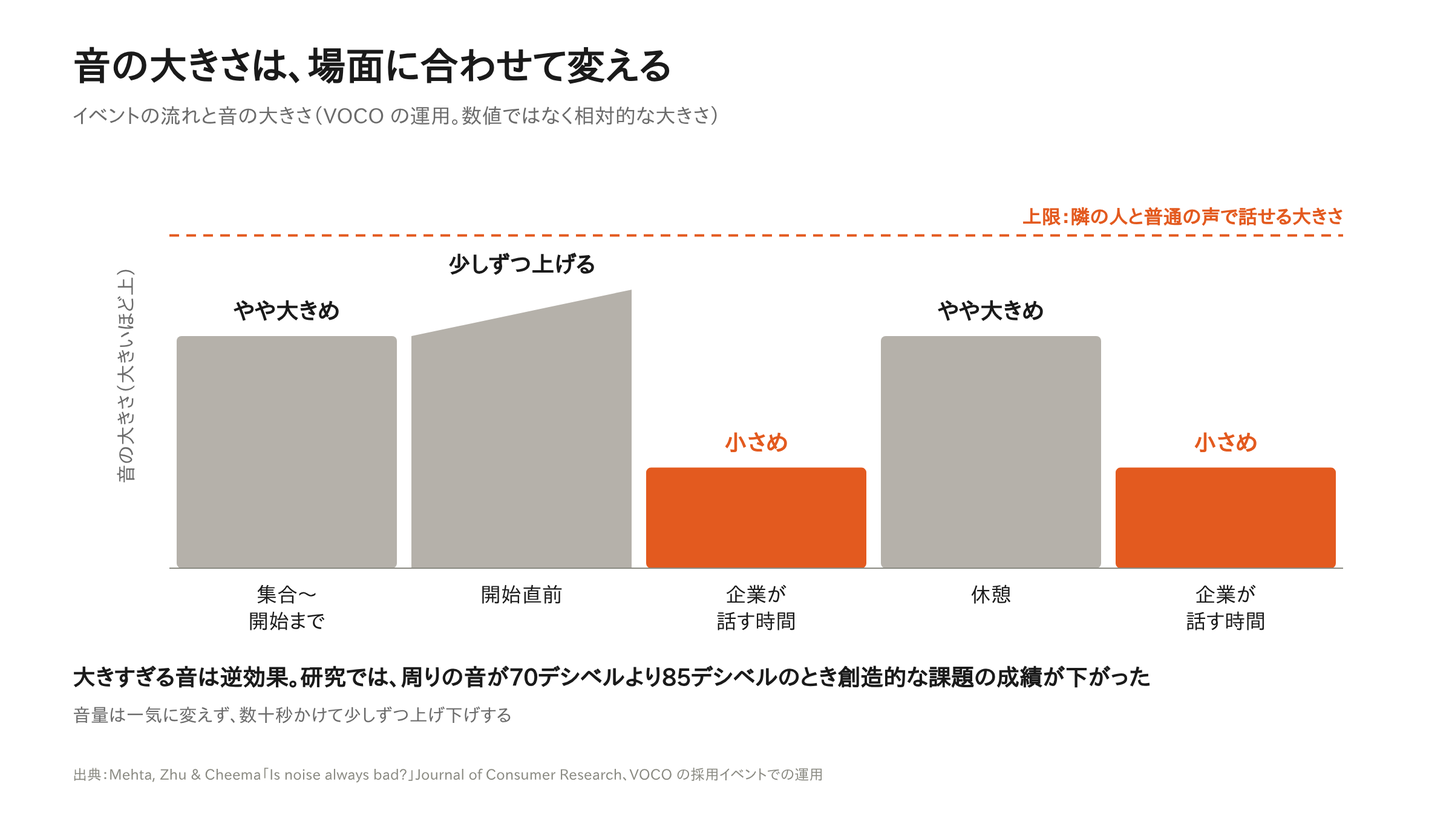
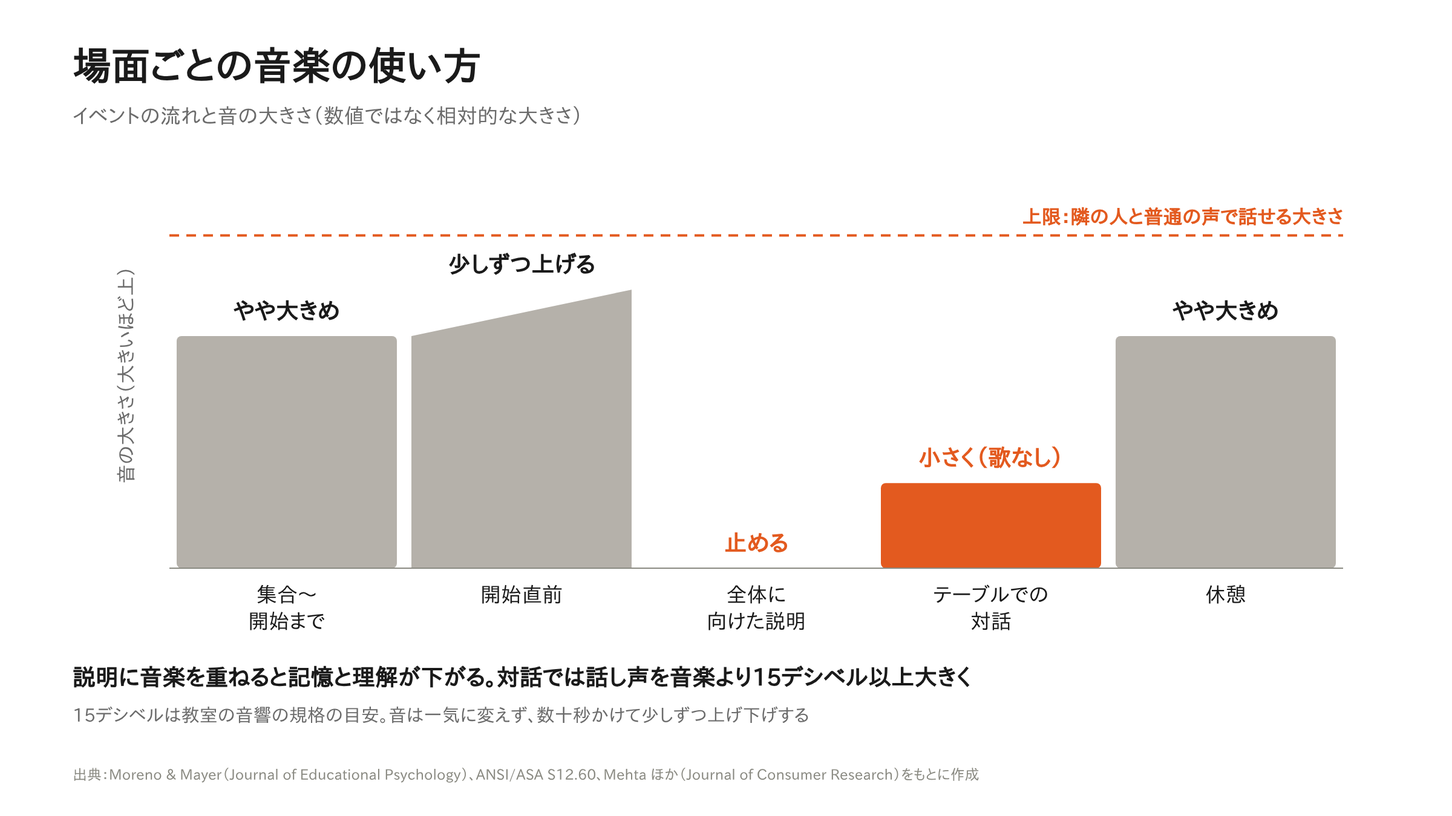
No.049 を研究で見直した「正しい音楽の使い方」に作り直し
- VOCO の運用を研究と照合し、改める2点（説明は止める、対話は歌のない曲を小さく）を提示
- 図2・図3を新しい使い方に合わせて作り直し、K-008 に点検結果を追記

Claude-Session: https://claude.ai/code/session_01MVhFnc9z1iMB51uu1opxbj

diff --git a/content/articles/out/No.049_article.html b/content/articles/out/No.049_article.html
@@ -1,92 +1,104 @@
-<!-- No.049 採用イベントに音楽は必要？｜曲調・音量・場面ごとの流し方を研究と現場の運用から解説
-タイトル（Studio の記事タイトル欄に入れる。本文には入れない）：採用イベントに音楽は必要？｜曲調・音量・場面ごとの流し方を研究と現場の運用から解説
-メタディスクリプション：採用イベントの音楽は、普段の空間と切り分け、会話が途切れたときの気まずさを消すために流します。歌詞の意味が届きにくい曲を選び、集合から開始、企業の話、休憩と場面ごとに音量を変えます。沈黙・歌詞・テンポ・音量に関する研究と、私たちのイベントでの運用、著作権の注意点をまとめました。
+<!-- No.049 採用イベントの音楽はどう流すのが正しい？｜研究で見直した曲の選び方・音量・場面ごとの使い方
+タイトル（Studio の記事タイトル欄に入れる。本文には入れない）：採用イベントの音楽はどう流すのが正しい？｜研究で見直した曲の選び方・音量・場面ごとの使い方
+メタディスクリプション：採用イベントの音楽は流すべきですが、全体に向けた説明の時間は止め、学生と話す時間は歌のない曲を話し声より十分小さく流すのが研究に沿った使い方です。沈黙、歌詞と言語、説明中の音楽、音量の基準に関する研究をもとに、私たちの運用も点検し、場面ごとの正しい使い方をまとめました。
 カテゴリ：2 採用イベント・合同説明会
-狙うプロンプト（層B／E）：採用イベント BGM／説明会 音楽 流す／イベント BGM 音量 曲 選び方／合同説明会 BGM 必要
-H2 に指定する行：結論：音楽は「場を切り替え、沈黙を埋める」ために流す／そもそも採用イベントに音楽は必要か／どんな曲を流すか：歌詞とテンポで選ぶ／音の大きさは場面に合わせて変える／音楽を流すうえで大切な5つのこと／まとめ／よくある質問
-画像（記事中）：写真ではなく図3枚（2026-11-09 堀本さん指示。No.049_charts.json から make-chart.mjs で作成）。【画像：図 chart】図1「そもそも採用イベントに〜」の直前／図2「どんな曲を流すか〜」の直前／図3「音の大きさは場面に〜」の直前
+狙うプロンプト（層B／E）：採用イベント BGM／説明会 音楽 流す／イベント BGM 音量 曲 選び方／合同説明会 BGM 必要／プレゼン中 BGM 必要か
+H2 に指定する行：結論：音楽は流す。ただし説明の時間は止め、対話の時間は歌のない曲を小さく／そもそもイベントに音楽は必要か／曲の選び方：歌詞と言語、曲調で決める／場面ごとの正しい使い方／音楽を流すうえで大切な5つのこと／まとめ／よくある質問
+画像（記事中）：写真ではなく図3枚（2026-11-09 堀本さん指示。No.049_charts.json から make-chart.mjs で作成）。【画像：図 chart】図1「そもそもイベントに〜」の直前／図2「曲の選び方〜」の直前／図3「場面ごとの正しい使い方」の直前
 画像の場面指示（英語）：（3枚とも図。make-chart.mjs で作成するため場面指示なし）
-表：「音の大きさは場面に合わせて変える」の節に表1つ。Studio が表に非対応なら箇条書きに置き換える
+表：「結論」の節（私たちの運用の点検）と「場面ごとの正しい使い方」の節に表を1つずつ。Studio が表に非対応なら箇条書きに置き換える
 CTA：本文末尾の段落の下にボタンコンポーネント2つ。擬似ボタンは作らない
 著者ボックス：全記事共通。氏名「堀本 大然」、所属「株式会社VOCO」、役職「経営戦略本部マネージャー」、/member の本人ページへリンク
-一次情報：VOCO の採用イベントでの音楽の運用（堀本さん 2026-11-09：普段の空間と切り分ける、音が途切れる瞬間＝気まずい瞬間を作らない、日本語の歌詞は読み取れて集中が削がれるため洋楽で盛り上げる、集合〜開始はやや大きめで開始直前に向けて上げる、企業が話す時間は小さめ、休憩はやや大きめ）。部活動の公式活動として開催、学生3〜5名のグループ面談形式
-外部：Koudenburg, Postmes & Gordijn「Disrupting the flow」Journal of Experimental Social Psychology（4秒の沈黙で拒絶感・自信の低下。沈黙に気づいていなくても影響）／Perham & Currie「Does listening to preferred music improve reading comprehension performance?」Applied Cognitive Psychology（歌詞のある音楽は、歌詞のない音楽や無音より読解の成績を下げた）／Haapakangas, Hongisto & Liebl, Indoor Air（周囲の話し声は聞き取りやすいほど作業成績を下げる。言語の短期記憶で影響が大きい）／Husain, Thompson & Schellenberg「Effects of musical tempo and mode on arousal, mood, and spatial abilities」Music Perception（テンポは覚醒度、長調・短調は気分に作用）／Milliman「Using background music to affect the behavior of supermarket shoppers」Journal of Marketing（テンポで客の歩く速さが変わり、音楽への気づきは条件で差がない）／Mehta, Zhu & Cheema「Is noise always bad?」Journal of Consumer Research（70dB は50dB より創造的課題の成績が高く、85dB では下がった）／JASRAC よくある質問（店舗・施設でCDや音楽プレーヤーで流すBGMは使用料規程の対象。サブスクは個人利用に限られる場合があり規約を確認）
-参考（構成の参考。文章は引用していない）：BGMと集中・店舗BGMの効果・イベント音響の解説記事の一般的な構成
+一次情報：VOCO の採用イベントでの音楽の運用（K-008。普段の空間と切り分ける、音が途切れる瞬間を作らない、日本語の歌詞は避け洋楽、集合〜開始はやや大きめで直前に上げる、企業が話す時間は小さめ、休憩はやや大きめ）と、それを研究で点検した結果（2026-11-09 堀本さん指示「VOCO の使い方が合っているかも含めて考え直す」）。学生3〜5名のグループ面談形式
+外部：Koudenburg, Postmes & Gordijn「Disrupting the flow」Journal of Experimental Social Psychology（4秒の沈黙で拒絶感・自信の低下）／Hui, Dubé & Chebat「The impact of music on consumers' reactions to waiting for services」Journal of Retailing（待ち時間の音楽は、曲の印象に関わらず場の感情的な評価を高め、好意的な行動につながる）／May & Hamilton, Motivation and Emotion（明るい音楽のもとでは写真の人物の人柄の評価と好意が高い）／Kniffin, Yan, Wansink & Schulze「The sound of cooperation」Journal of Organizational Behavior（明るい音楽で協力の拠出が約3分の1多い。音楽なしは不快な音楽と同程度）／Perham & Currie, Applied Cognitive Psychology（歌詞のある音楽は読解の成績を下げる）／Van Engen & Bradlow, Journal of the Acoustical Society of America（英語母語話者は、英語の話し声が重なると中国語の話し声より英文を聞き取れなかった）／Colle & Welsh（意味の分からない外国語の話し声でも、順番に覚える課題の成績は下がる）／Moreno & Mayer「A coherence effect in multimedia learning」Journal of Educational Psychology（ナレーション付きの解説に背景音楽を加えると記憶と応用の成績が下がった）／ANSI/ASA S12.60（教室では話し声を背景の音より15デシベル以上大きくする目安）／Husain, Thompson & Schellenberg, Music Perception（テンポは覚醒度、長調・短調は気分）／Mehta, Zhu & Cheema, Journal of Consumer Research（70dB と 85dB）／Haapakangas, Hongisto & Liebl, Indoor Air（話し声は聞き取りやすいほど作業を妨げる）／JASRAC よくある質問（BGM・サブスク）
+参考（構成の参考。文章は引用していない）：BGMと集中、店舗BGM、学習中の音楽、教室音響の解説の一般的な構成。初版（VOCO の運用の紹介）を、研究による点検と「正しい使い方」の提示に作り直した
 FAQPage JSON-LD：
 {"@context":"https://schema.org","@type":"FAQPage","mainEntity":[
-{"@type":"Question","name":"採用イベントで音楽を流す必要はありますか？","acceptedAnswer":{"@type":"Answer","text":"流すことを勧めます。普段の空間と切り分けて学生の気持ちを切り替え、会話が途切れる瞬間の気まずさを消せるからです。ただし、企業が会社の説明をしている時間は、話を邪魔しない小さめの音量にします。"}},
-{"@type":"Question","name":"採用イベントのBGMは、邦楽と洋楽のどちらがよいですか？","acceptedAnswer":{"@type":"Answer","text":"私たちは洋楽を流しています。歌詞のある音楽は読解や作業を妨げることが分かっており、日本語の歌詞は学生が意味を読み取れるため、注意がそがれやすいからです。より静かにしたい場面では、歌の入らない曲も選べます。"}},
-{"@type":"Question","name":"BGMの音量は、どのくらいにすればよいですか？","acceptedAnswer":{"@type":"Answer","text":"場面で変えます。集合から開始まではやや大きめにして直前に向けて上げ、企業が話している時間は小さめ、休憩時間はやや大きめにします。どの場面でも、隣の人と普通の声で話せる大きさを上限にします。"}}]}
+{"@type":"Question","name":"採用イベントで音楽を流す必要はありますか？","acceptedAnswer":{"@type":"Answer","text":"流すことを勧めます。会話の途切れの気まずさを消し、場の評価や、初対面の相手への印象を高める効果が研究で示されています。ただし、全体に向けた説明の時間は止めます。"}},
+{"@type":"Question","name":"会社説明やプレゼンの間も、BGMは小さく流したほうがよいですか？","acceptedAnswer":{"@type":"Answer","text":"全体に向けた説明では止めることを勧めます。ナレーション付きの解説に背景音楽を加えると、内容の記憶と理解の成績が下がった研究があります。少人数のテーブルで話す時間は、歌のない曲を話し声より十分小さく流します。"}},
+{"@type":"Question","name":"採用イベントのBGMは、邦楽と洋楽のどちらがよいですか？","acceptedAnswer":{"@type":"Answer","text":"集合から開始までと休憩には、明るい洋楽が向いています。母語の歌詞は外国語より会話の妨げになりやすいからです。ただし外国語の歌詞も妨げにはなるため、学生と話す時間は歌のない曲にします。"}}]}
 -->
-<p><strong>採用イベントの音楽は、普段の空間と切り分けることと、会話が途切れたときの気まずさを消すために流します。</strong>曲は歌詞の意味が届きにくいものを選び、音の大きさは場面ごとに変えます。</p>
-<p>「音楽は流したほうがいいのか」「どんな曲を、どのくらいの大きさで流せばいいのか」。イベントを開く企業の採用担当者から、よく寄せられる質問です。音楽は会場の空気を大きく左右しますが、決め方は担当者の好みに任されがちです。</p>
-<p>この記事では、沈黙や歌詞、テンポ、音量に関する研究と、私たちが採用イベントで続けている運用をもとに、音楽の必要性と流し方をまとめます。</p>
+<p><strong>イベントの音楽は流すべきです。ただし、全体に向けた説明の時間は音楽を止め、学生と話す時間は歌のない曲を話し声より十分小さく流すのが、研究に沿った使い方です。</strong></p>
+<p>音楽については、沈黙の気まずさ、歌詞と言語、説明中の音楽、教室の音の大きさなど、別々の分野に研究があります。この記事では、それらをもとに、私たちが採用イベントで続けてきた音楽の使い方を点検しました。</p>
+<p>結果は、大筋は研究と合っていましたが、改めるべき点が2つありました。点検の結果と、場面ごとの正しい使い方を説明します。</p>
 
-<h2>結論：音楽は「場を切り替え、沈黙を埋める」ために流す</h2>
-<p><strong>採用イベントに音楽は必要です。ただし、目的は盛り上げることそのものではなく、学生が話しやすい空気を作ることです。</strong>そのため、話を邪魔しない曲と音量を選びます。</p>
-<p>私たちのイベントでは、日本語の歌詞の曲は流さず、盛り上がる印象の洋楽を流しています。日本語の歌詞は学生が意味を読み取れるため、話に向けたい注意がそがれるからです。</p>
-<p>音の大きさは場面で変えます。集合から開始まではやや大きめにし、始まる直前に向けて少しずつ上げます。企業が話している時間は小さめにし、休憩時間はやや大きめに戻します。</p>
+<h2>結論：音楽は流す。ただし説明の時間は止め、対話の時間は歌のない曲を小さく</h2>
+<p><strong>私たちの運用を研究と照らし合わせた結果を、表にまとめます。</strong></p>
+<table>
+<tr><th>私たちの運用</th><th>研究との照合</th><th>判定</th></tr>
+<tr><td>音楽で普段の空間と切り分ける</td><td>音楽は場の評価と、人への印象を高める</td><td>合っている</td></tr>
+<tr><td>音楽で沈黙の気まずさを消す</td><td>4秒の沈黙でも、人は拒まれている感覚を持つ</td><td>合っている</td></tr>
+<tr><td>日本語の曲を避け、洋楽を流す</td><td>母語の話し声は外国語より聞き取りを妨げる。ただし外国語の歌詞も妨げにはなる</td><td>一部改める</td></tr>
+<tr><td>集合から開始まではやや大きめ、休憩もやや大きめ</td><td>明るい曲は協力や好意を高める。大きすぎる音は逆効果</td><td>合っている（上限を決める）</td></tr>
+<tr><td>企業が話す時間は小さめに流す</td><td>説明に音楽を重ねると、記憶と理解が下がる</td><td>改める</td></tr>
+</table>
+<p>改める点は2つです。①全体に向けた説明の時間は、小さくするのではなく止める。②学生と話す時間に流す曲は、洋楽ではなく歌のない曲にする。以下で、根拠を順に説明します。</p>
 
 <p>【画像：図 chart】図1：会話が途切れた4秒を、音楽が埋める（会話の流れの模式図）</p>
-<h2>そもそも採用イベントに音楽は必要か</h2>
-<p><strong>音楽には、採用イベントで役に立つ働きが2つあります。</strong>①普段の空間と切り分けること、②会話が途切れる瞬間の気まずさを消すことです。</p>
-<p>①について。学生にとって、大学の教室や会議室は普段の場所です。同じ部屋でも、音楽が流れていると「いつもとは違う場に来た」と感じられ、気持ちが切り替わります。初めて会う企業の社員と話す前の緊張も和らぎます。</p>
-<p>②について。オランダの研究チームが、3人の会話の動画を見せる実験を行いました。</p>
-<p>会話の途中に4秒の沈黙が入った動画を見た人は、自信が下がり、自分が拒まれている感覚を強く報告しました。見た人は沈黙に気づいていなかったにもかかわらずです（Koudenburg ほか、Journal of Experimental Social Psychology）。</p>
-<p>学生3〜5名と社員が一つのテーブルで話す形式では、会話が途切れる瞬間がどうしても生まれます。音楽が流れていれば、その瞬間が無音になりません。気まずさが生まれにくくなり、次の一言が出やすくなります。</p>
-<p>一方で、音は考える作業の妨げにもなります。企業が会社の説明をしている時間に大きな音が流れていると、学生は話を聞き取りにくくなります。音楽は必要ですが、場面に合わせて抑えることが前提です。</p>
+<h2>そもそもイベントに音楽は必要か</h2>
+<p><strong>研究からは、音楽を流す理由が3つ挙げられます。</strong>①沈黙の気まずさを消す、②場の印象を良くする、③人への印象と協力を高める、です。</p>
+<p>①について。オランダの研究チームが、3人の会話の動画を見せる実験を行いました。</p>
+<p>会話の途中に4秒の沈黙が入った動画を見た人は、自信が下がり、拒まれている感覚を強く報告しました。沈黙に気づいていなくても影響がありました（Koudenburg ほか、Journal of Experimental Social Psychology）。</p>
+<p>学生3〜5名と社員が一つのテーブルで話すと、会話が途切れる瞬間がどうしても生まれます。音楽が流れていれば、その瞬間が無音になりません。</p>
+<p>②について。サービスの待ち時間に音楽を流した研究では、曲の印象に関わらず、場への感情的な評価が上がり、その組織への好意的な行動につながりました（Hui ほか、Journal of Retailing）。開始を待つ時間にも当てはまります。</p>
+<p>③について。明るい音楽が流れていると、初めて見る人物の人柄への評価や好意が高くなりました（May・Hamilton、Motivation and Emotion）。</p>
+<p>別の実験では、明るい曲のもとでは、協力のための拠出が不快な曲のときより約3分の1多くなりました（Kniffin ほか、Journal of Organizational Behavior）。</p>
+<p>この協力の実験では、音楽がない場合も、不快な曲と同じ程度にとどまりました。初対面の学生と社員が話す場では、無音より明るい曲を流すほうが望ましいといえます。</p>
 
-<p>【画像：図 chart】図2：曲は「歌詞」と「テンポ」で選ぶ（採用イベントで流す曲の選び方）</p>
-<h2>どんな曲を流すか：歌詞とテンポで選ぶ</h2>
-<p><strong>曲を選ぶときに見るのは、歌詞とテンポの2つです。</strong></p>
-<p>歌詞について。英国の大学の実験では、歌詞のある音楽を聞きながら文章を読むと、歌詞のない音楽や無音のときより読解の成績が下がりました（Perham・Currie、Applied Cognitive Psychology）。好きな曲かどうかに関わらず、歌詞が妨げになっていました。</p>
-<p>周りの話し声についての研究をまとめた論文でも、話し声は聞き取りやすいほど作業の成績を下げるとされています（Haapakangas ほか、Indoor Air）。意味が分かる言葉ほど、注意を引き寄せるということです。</p>
-<p>日本の学生にとって、日本語の歌詞は聞き流そうとしても意味が入ってきます。私たちが日本語の曲を避け、洋楽を流しているのはこのためです。より静かにしたい場面では、歌の入らない曲を選ぶ方法もあります。</p>
-<p>テンポについて。カナダの研究チームの実験では、曲のテンポは気持ちの高まり（覚醒度）に、長調か短調かは気分の明るさに影響しました（Husain ほか、Music Perception）。開始前に盛り上げたいなら、テンポが速く明るい曲調の曲が合います。</p>
-<p>米国のスーパーマーケットの実験では、曲のテンポを変えると客の歩く速さが変わりました。客は、音楽に気づいていたかどうかで差がありませんでした（Milliman、Journal of Marketing）。音楽は、気づかれないまま人の動きと気分に働きかけます。</p>
+<p>【画像：図 chart】図2：曲は「歌詞」で使い分ける（場面ごとに流す曲の選び方）</p>
+<h2>曲の選び方：歌詞と言語、曲調で決める</h2>
+<p><strong>曲を選ぶときに最も大切なのは、歌詞があるかどうかと、その言語です。</strong></p>
+<p>歌詞のある音楽は、歌詞のない音楽や無音のときより読解の成績を下げました（Perham・Currie、Applied Cognitive Psychology）。好きな曲かどうかに関わらず、歌詞が妨げになっていました。</p>
+<p>言語の違いについては、聞き取りの研究があります。英語を母語とする人に英文を聞き取ってもらうと、背景に重なる話し声が英語のときは、中国語のときより聞き取れませんでした（Van Engen・Bradlow、Journal of the Acoustical Society of America）。</p>
+<p>この結果からは、日本の学生にとって、日本語の歌詞は英語の歌詞より会話の妨げになると考えられます。日本語の曲を避けるという私たちの運用は、この点で研究と合っています。</p>
+<p>ただし、外国語なら妨げにならないわけではありません。意味の分からない外国語の話し声でも、聞いた内容を順番に覚える課題の成績は下がりました（Colle・Welsh）。英語が得意な学生には、英語の歌詞も意味が入ってきます。そのため、話す時間には歌のない曲が最も安全です。</p>
+<p>曲調は明るいものを選びます。テンポは気持ちの高まりに、長調か短調かは気分の明るさに影響します（Husain ほか、Music Perception）。集合から開始までと休憩には、テンポが速く明るい曲が合います。</p>
 
-<p>【画像：図 chart】図3：音の大きさは、場面に合わせて変える（イベントの流れと音の大きさ）</p>
-<h2>音の大きさは場面に合わせて変える</h2>
-<p><strong>音の大きさは、イベントの流れに合わせて変えます。</strong>私たちのイベントでの運用を表にまとめます。</p>
+<p>【画像：図 chart】図3：場面ごとの音楽の使い方（イベントの流れと音の大きさ）</p>
+<h2>場面ごとの正しい使い方</h2>
+<p><strong>研究を踏まえた場面ごとの使い方を、表にまとめます。</strong></p>
 <table>
-<tr><th>場面</th><th>音の大きさ</th><th>ねらい</th></tr>
-<tr><td>集合から開始まで</td><td>やや大きめ。始まる直前に向けて少しずつ上げる</td><td>普段の空間と切り分け、気持ちを高めていく</td></tr>
-<tr><td>企業が話している時間</td><td>小さめ</td><td>話を邪魔せず、会話の途切れだけを埋める</td></tr>
-<tr><td>休憩時間</td><td>やや大きめ</td><td>張った気持ちをほどき、学生どうしや社員との雑談を促す</td></tr>
+<tr><th>場面</th><th>曲</th><th>音の大きさ</th></tr>
+<tr><td>集合から開始まで</td><td>テンポが速く明るい曲。洋楽でもよい</td><td>やや大きめ。開始の直前に向けて少しずつ上げる</td></tr>
+<tr><td>全体に向けた説明（司会・会社紹介）</td><td>流さない</td><td>止める</td></tr>
+<tr><td>テーブルでの対話</td><td>歌のない、落ち着いた曲</td><td>小さく。話し声より十分小さくする</td></tr>
+<tr><td>休憩</td><td>テンポが速く明るい曲。洋楽でもよい</td><td>やや大きめ</td></tr>
 </table>
-<p>大きすぎる音にも注意が要ります。北米の研究チームの実験では、周りの音が中程度（70デシベル）のときは、静かなとき（50デシベル）より創造的な課題の成績が上がり、大きいとき（85デシベル）には下がりました（Mehta ほか、Journal of Consumer Research）。</p>
-<p>やや大きめの場面でも、隣の人と普通の声で話せる大きさを上限にします。声を張らないと会話できない大きさでは、学生は疲れ、話す気持ちもしぼみます。</p>
-<p>音量は一気に変えず、数十秒かけて少しずつ上げ下げします。急に音が変わると、それ自体が学生の注意を引くからです。開始直前に音を上げ、合図とともに下げると、学生は自然に「始まる」と気づき、前を向きます。</p>
+<p>全体に向けた説明では、音楽を止めます。</p>
+<p>ナレーション付きの解説を見せる実験では、背景に歌のない音楽を加えただけで、内容の記憶と応用の成績が下がりました（Moreno・Mayer、Journal of Educational Psychology）。小さくしても、聞き手の頭の中で処理する音が増えることに変わりはありません。</p>
+<p>テーブルでの対話では、歌のない曲を小さく流します。会話の途切れを埋められるうえ、隣のテーブルの話し声を聞こえにくくする働きも期待できます。周りの話し声は、聞き取りやすいほど作業を妨げるからです（Haapakangas ほか、Indoor Air）。</p>
+<p>小ささの目安には、教室の音響の規格が参考になります。米国の規格（ANSI/ASA S12.60）は、話し声を背景の音より15デシベル以上大きくすることを目安にしています。社員の話し声が、音楽に比べてはっきり大きく聞こえる程度に抑えます。</p>
+<p>集合から開始までと休憩は、やや大きめで構いません。ただし、大きすぎる音は逆効果です。</p>
+<p>周りの音が70デシベルのときは50デシベルより創造的な課題の成績が上がり、85デシベルでは下がりました（Mehta ほか、Journal of Consumer Research）。隣の人と普通の声で話せる大きさを上限にします。</p>
 
 <h2>音楽を流すうえで大切な5つのこと</h2>
 <p><strong>曲と音量のほかに、次の5つを押さえます。</strong></p>
 <ul>
-<li>①曲と曲の間に無音を作らない：曲の切れ目の数秒の無音も、沈黙になります。曲がつながるように再生の設定をし、イベントの時間より長いプレイリストを用意します。</li>
-<li>②音量を操作する担当者を決める：進行に合わせて音を上げ下げする人を1人決めます。司会や登壇者と兼ねると、操作が遅れます。</li>
-<li>③会場で事前に音を確かめる：部屋の広さや壁の材質で、響き方は変わります。前の席と後ろの席の両方で、話し声が聞き取れるかを確かめます。</li>
-<li>④歌詞の内容を確かめる：洋楽でも、意味が分かる学生はいます。不適切な表現を含む曲は外します。</li>
+<li>①曲と曲の間に無音を作らない：曲の切れ目の数秒も沈黙になります。曲がつながる設定にし、イベントの時間より長いプレイリストを用意します。</li>
+<li>②音を操作する担当者を決める：進行に合わせて音を止め、上げ下げする人を1人決めます。司会や登壇者と兼ねると、操作が遅れます。</li>
+<li>③音量は少しずつ変える：説明の前は数十秒かけて下げてから止め、終わったら少しずつ戻します。急な変化は、それ自体が注意を引きます。</li>
+<li>④会場で事前に確かめる：部屋の広さや壁の材質で響き方は変わります。前の席と後ろの席で、話し声が音楽よりはっきり聞こえるかを確かめます。</li>
 <li>⑤著作権の手続きを確かめる：録音された音楽を会場で流すには、手続きが必要になることがあります。</li>
 </ul>
-<p>⑤について。JASRAC（日本音楽著作権協会）は、店舗や施設でCDや音楽プレーヤーを使って流すBGMを使用料の対象としています。</p>
-<p>また、音楽の定額配信サービス（サブスクリプション）は個人での利用に限られている場合があるため、利用規約を確かめるよう案内しています。会場がすでに手続きをしているか、主催者として手続きが要るかを、事前に会場とJASRACに確かめます。</p>
-<p>イベントの当日は、学生の様子を見て調整します。テーブルで学生が身を乗り出して聞き返していたら、音が大きすぎる合図です。</p>
+<p>⑤について。JASRAC（日本音楽著作権協会）は、店舗や施設でCDや音楽プレーヤーを使って流すBGMを使用料の対象としています。音楽の定額配信サービス（サブスクリプション）は個人での利用に限られている場合があるため、利用規約を確かめるよう案内しています。</p>
+<p>会場がすでに手続きをしているか、主催者として手続きが要るかを、事前に会場とJASRACに確かめます。当日は学生の様子を見て、身を乗り出して聞き返す学生がいれば、音を下げます。</p>
 
 <h2>まとめ</h2>
 <ul>
-<li>採用イベントの音楽は、普段の空間と切り分け、会話が途切れる瞬間の気まずさを消すために流す。研究では、4秒の沈黙でも人は拒まれている感覚を持つ。</li>
-<li>音楽は必要だが、話を邪魔しないことが前提。企業が話す時間は音を抑える。</li>
-<li>歌詞のある曲は読解や作業を妨げ、意味が分かる言葉ほど注意を引く。私たちは日本語の曲を避け、盛り上がる印象の洋楽を流している。テンポは気持ちの高まりに、曲調は気分に働く。</li>
-<li>集合から開始まではやや大きめで、直前に向けて上げる。企業の話の時間は小さめ、休憩はやや大きめ。普通の声で話せる大きさを上限にし、少しずつ変える。</li>
-<li>曲間の無音を作らない、音量の担当者を決める、会場で事前に確かめる、歌詞の内容を確かめる、著作権の手続きを確かめる。</li>
+<li>イベントの音楽は流すべき。ただし全体に向けた説明の時間は止め、テーブルでの対話は歌のない曲を小さく流す。私たちの運用は大筋で合っていたが、この2点を改める。</li>
+<li>音楽は、4秒の沈黙でも生まれる気まずさを消し、場の評価、人への印象、協力を高める。無音より明るい曲が望ましい。</li>
+<li>歌詞は読解や会話の妨げになり、母語の歌詞は外国語より妨げが大きい。集合と休憩は洋楽でもよいが、話す時間は歌のない曲が最も安全。</li>
+<li>集合から開始まではやや大きめで直前に上げ、説明では止め、対話では話し声より十分小さく、休憩はやや大きめ。上限は隣の人と普通の声で話せる大きさ。</li>
+<li>曲間の無音を作らない、担当者を決める、少しずつ変える、事前に確かめる、著作権の手続きを確かめる。</li>
 </ul>
 
 <h2>よくある質問</h2>
 <h3>採用イベントで音楽を流す必要はありますか？</h3>
-<p>流すことを勧めます。普段の空間と切り分けて学生の気持ちを切り替え、会話が途切れる瞬間の気まずさを消せるからです。ただし、企業が会社の説明をしている時間は、話を邪魔しない小さめの音量にします。</p>
+<p>流すことを勧めます。会話の途切れの気まずさを消し、場の評価や、初対面の相手への印象を高める効果が研究で示されています。ただし、全体に向けた説明の時間は止めます。</p>
+<h3>会社説明やプレゼンの間も、BGMは小さく流したほうがよいですか？</h3>
+<p>全体に向けた説明では止めることを勧めます。ナレーション付きの解説に背景音楽を加えると、内容の記憶と理解の成績が下がった研究があります。少人数のテーブルで話す時間は、歌のない曲を話し声より十分小さく流します。</p>
 <h3>採用イベントのBGMは、邦楽と洋楽のどちらがよいですか？</h3>
-<p>私たちは洋楽を流しています。歌詞のある音楽は読解や作業を妨げることが分かっており、日本語の歌詞は学生が意味を読み取れるため、注意がそがれやすいからです。より静かにしたい場面では、歌の入らない曲も選べます。</p>
-<h3>BGMの音量は、どのくらいにすればよいですか？</h3>
-<p>場面で変えます。集合から開始まではやや大きめにして直前に向けて上げ、企業が話している時間は小さめ、休憩時間はやや大きめにします。どの場面でも、隣の人と普通の声で話せる大きさを上限にします。</p>
+<p>集合から開始までと休憩には、明るい洋楽が向いています。母語の歌詞は外国語より会話の妨げになりやすいからです。ただし外国語の歌詞も妨げにはなるため、学生と話す時間は歌のない曲にします。</p>
 
 <p>採用のことを、一度話してみませんか。どんな段階でも構いません。「まだ検討中」でも大歓迎です。現場に入って動いてきた立場から、貴社の状況に合わせてお答えします。</p>
 <p>この記事を書いた人：堀本 大然（株式会社VOCO 経営戦略本部マネージャー）。企業の採用担当として年間100回以上の採用イベントに登壇し、30都道府県・20業種の新卒採用を支援しています。</p>

diff --git a/content/articles/themes.md b/content/articles/themes.md
@@ -56,7 +56,7 @@
 | 046 | Z世代の学生は何を基準に就職先を選ぶ？｜部活動に打ち込む大学生592人の就活意向調査（学年・地域・世代の比較） | 学生理解・市場動向 | Z世代 就活 価値観 調査 | 【AEO 層A/B】大学生 学年別 就職意識（堀本さん指定テーマ 2026-10-26。VOCO の事前アンケート592人＋マイナビの推移。約5000字・グラフ5枚） |
 | 047 | 採用ペルソナはどう作る？｜新卒採用で使える項目・作り方の5つの手順・面接での使い方 | 1 | 採用ペルソナ 作り方 新卒 | 【AEO 層B/E】採用ペルソナとは ターゲット 違い／求める人物像 決め方（旧052を繰り上げ。2026-11-02 今週投稿分。2026-11-09 堀本さん指示で学生アンケートに頼らない網羅型に作り直し。No.010・K-003） |
 | 048 | 大阪・名古屋の中小企業が大手と競わずに新卒採用するには？｜関西・東海で選ばれるための5つの打ち手 | 7 | 大阪 名古屋 中小企業 新卒採用 | 【AEO 層B】中小企業 新卒採用 大手 勝てない（旧054を繰り上げ。2026-11-09 堀本さん指示で学生アンケートに頼らない網羅型に作り直し、大阪・名古屋に戻した。ワークス大卒求人倍率調査・マイナビ地元就職調査・K-002・K-007） |
-| 049 | 採用イベントに音楽は必要？｜曲調・音量・場面ごとの流し方を研究と現場の運用から解説 | 2 | 採用イベント BGM 音楽 | 【AEO 層B/E】説明会 音楽 流す／イベント BGM 音量（堀本さん指定テーマ 2026-11-09。K-008。旧049「採用ピッチ資料」は 073 に移動） |
+| 049 | 採用イベントの音楽はどう流すのが正しい？｜研究で見直した曲の選び方・音量・場面ごとの使い方 | 2 | 採用イベント BGM 音楽 | 【AEO 層B/E】説明会 音楽 流す／イベント BGM 音量（堀本さん指定テーマ 2026-11-09。K-008。旧049「採用ピッチ資料」は 073 に移動） |
 | 050 | 採用代行（RPO）と採用コンサルの違い、自社に合う選び方 | 6 | 採用代行 採用コンサル 違い | RPO 採用コンサル 違い |
 | 051 | （No.034 に繰り上げ済み） | 6 | ― | ― |
 | 052 | （No.047 に繰り上げ済み） | 1 | ― | ― |

diff --git a/tools/aeo/HANDOFF.md b/tools/aeo/HANDOFF.md
@@ -249,6 +249,14 @@
 - Doc（確認前フォルダ）：`1XdryMZyncjP0rbyEmFy_CGQYFLBQ-c2RxfUnY1g7kh8`。
 - 追加指示（堀本さん）：間に入れる画像は写真ではなくグラフや図に。make-chart.mjs に模式図の型（gap・cards・levels）を足し、No.049_charts.json から図3枚（4秒の沈黙／曲の選び方／場面ごとの音量）を作成。写真3枚は置き換え。Doc は画像を差し替えるため作り直した（新 Doc `1uhaQ9tzqAtxYGTlMwvkP5YqqjH2QyyKsDwA0ucc0CzM`。旧 1XdryMZy… はゴミ箱）。raw のブランチ URL は差し替え直後にキャッシュで旧画像を返すため、Doc の画像 URL はコミット SHA で指定した（`make-doc-html.mjs --branch <SHA>`）。
 
+### 4-25. 2026-11-09 No.049 を「研究で見直した正しい使い方」に作り直し
+
+- 堀本さん指示：VOCO の歌の使い方の紹介でしかないので、他の論文をもとに、VOCO の使い方が合っているかも含めて考え直し、正しいイベントにおける音楽の使い方を作る。
+- 新タイトル：採用イベントの音楽はどう流すのが正しい？｜研究で見直した曲の選び方・音量・場面ごとの使い方（3779字、想定4000字でチェック）。
+- 結論の節に「私たちの運用 × 研究との照合 × 判定」の表。改める2点＝全体に向けた説明は止める、対話の時間は歌のない曲を話し声より十分小さく（K-008 追記）。
+- 追加した出典：Van Engen・Bradlow（JASA）、Colle・Welsh、Moreno・Mayer（J Educ Psychol。PDF で要旨を確認）、ANSI/ASA S12.60（+15dB）、Hui ほか（J Retailing）、May・Hamilton（Motivation and Emotion）、Kniffin ほか（J Organ Behav）。Milliman は外した。
+- 図2（曲の選び方）・図3（場面ごとの使い方。説明は「止める」、対話は「小さく（歌なし）」）を作り直し。図1は据え置き。
+
 ## 5. ファイルの地図
 
 - `content/articles/out/No.xxx_article.html` … 記事の正本（先頭コメントにタイトル／メタ／狙うプロンプト／H2 一覧／画像位置／表・FAQ・著者の注記／FAQPage JSON-LD）

diff --git a/content/articles/prompt-map.md b/content/articles/prompt-map.md
@@ -117,7 +117,7 @@ AI検索（ChatGPT／Perplexity／Google AI Overviews・AIモード／Claude／G
 
 | No. | タイトル | 層 | 狙うプロンプト | 一次情報・外部の出典 |
 |---|---|---|---|---|
-| 049 | 採用イベントに音楽は必要？ | B/E | 採用イベント BGM／説明会 音楽 流す／イベント BGM 音量 曲 選び方／合同説明会 BGM 必要 | K-008（VOCO のイベントでの音楽の運用）。Koudenburg ほか（4秒の沈黙）、Perham・Currie（歌詞と読解）、Haapakangas ほか（話し声の聞き取りやすさ）、Husain ほか（テンポと覚醒度）、Milliman（テンポと客の動き）、Mehta ほか（70・85dB）、JASRAC FAQ（BGM・サブスク） |
+| 049 | 採用イベントの音楽はどう流すのが正しい？ | B/E | 採用イベント BGM／説明会 音楽 流す／イベント BGM 音量 曲 選び方／合同説明会 BGM 必要／プレゼン中 BGM 必要か | K-008（VOCO の運用と、研究による点検）。Van Engen・Bradlow（母語と外国語の話し声）、Colle・Welsh、Moreno・Mayer（説明中の音楽）、ANSI/ASA S12.60（+15dB）、Hui ほか、May・Hamilton、Kniffin ほか。Koudenburg ほか（4秒の沈黙）、Perham・Currie（歌詞と読解）、Haapakangas ほか（話し声の聞き取りやすさ）、Husain ほか（テンポと覚醒度）、Milliman（テンポと客の動き）、Mehta ほか（70・85dB）、JASRAC FAQ（BGM・サブスク） |
 
 ## 第3週以降の候補（未執筆）
 
